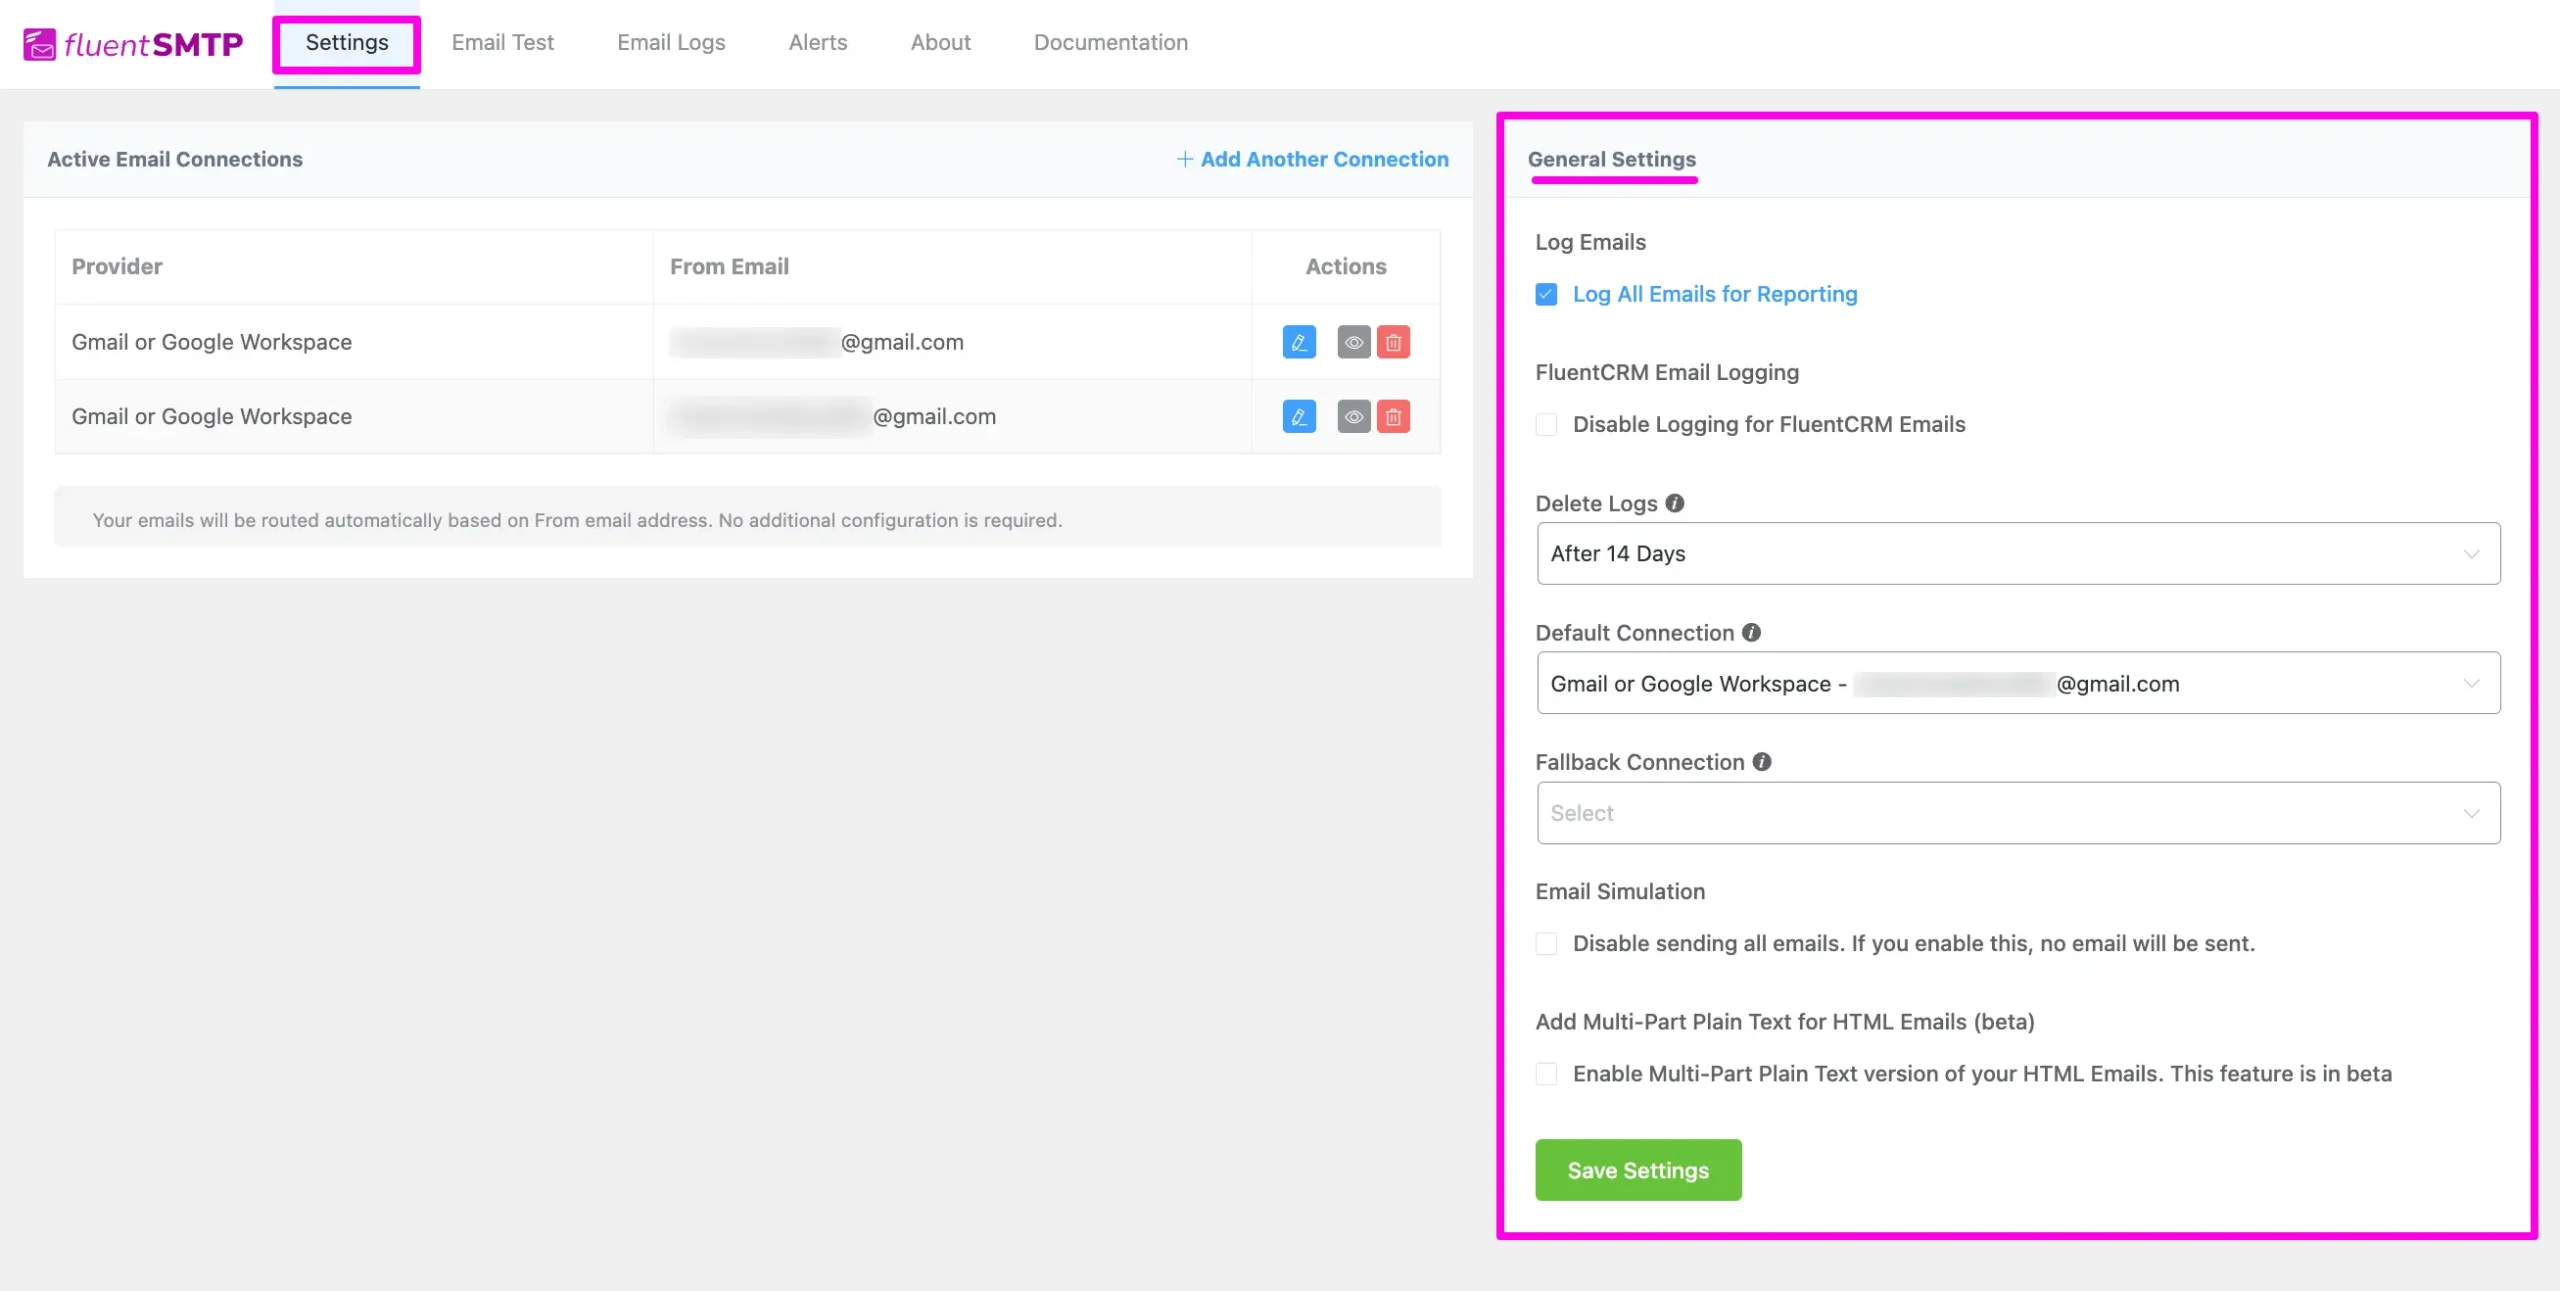
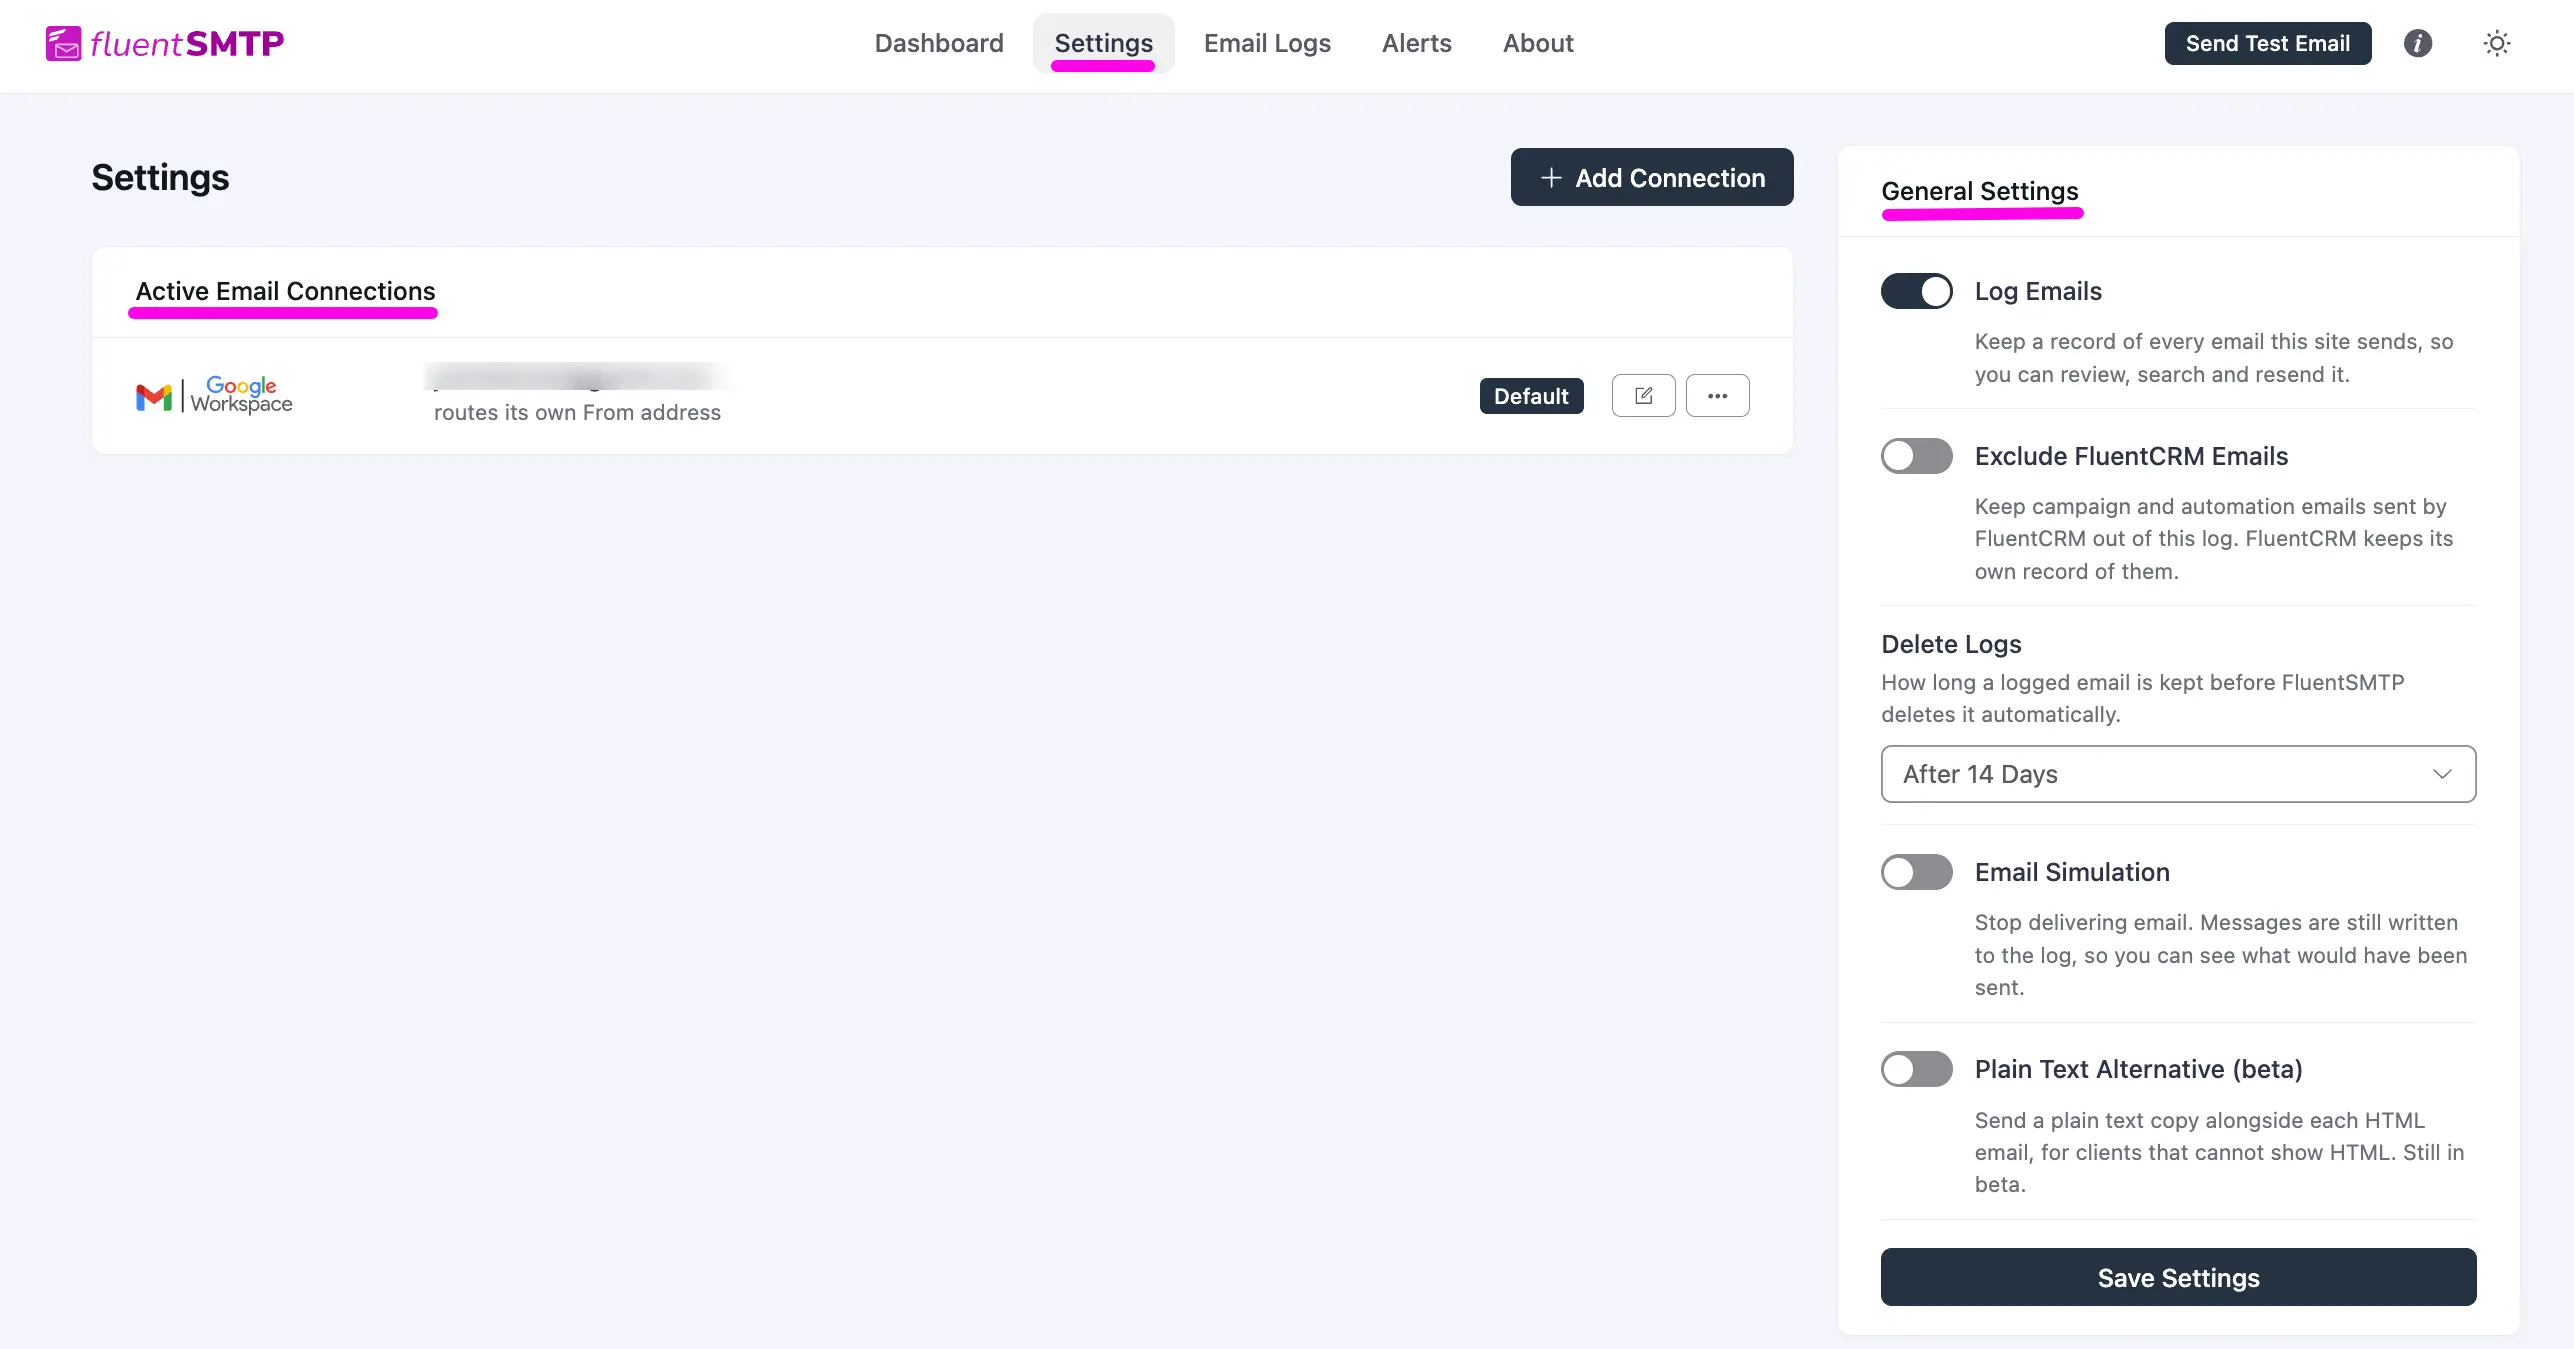
rewrite FluentSMTP Settings doc

diff --git a/docs/getting-started/fluentsmtp-settings.md b/docs/getting-started/fluentsmtp-settings.md
@@ -1,47 +1,107 @@
 # FluentSMTP Settings
 
-This article will guide you through the process of using the **General Settings** of the main section of FluentSMTP.
+The **FluentSMTP Settings** page lets you manage your email connections and configure settings that control how FluentSMTP handles outgoing emails on your WordPress site.
+
+From this page, you can manage your active email connections, choose default and fallback connections, control email logging, enable email simulation, and configure other general settings. You can also manage sender addresses and connection-specific options from the individual connection settings.
+
+This guide explains each available setting and shows you how to configure FluentSMTP.
+
+## Open Settings
+
+Click **Settings** in the FluentSMTP top bar. The page has two columns: **Active Email Connections** on the left, and **General Settings** on the right.
+
+Save **General Settings** with the **Save Settings** button. Connection changes are saved on the Add/Edit Connection screen with the **Save Connection Settings** button.
+
+![Active Email Connections and General Settings on the FluentSMTP Settings Page](/images/getting-started/fluentsmtp-settings/General-Settings-tab-on-the-right-hand-side-scaled.webp)
+
+
 
 ## General Settings
 
-To learn how you can get the General Settings option of FluentSMTP, follow the steps with screenshots below –
+These settings apply to the whole site, not to one provider.
 
-First, go to the **Settings** section from the **FleuntSMTP Navbar** and you will get all the settings options under the **General Settings** sidebar on the right-hand side.
+### Log Emails
 
-Once you are done, do not forget to click the **Save Settings** button, otherwise the changes you have made will not save.
+**Log Emails** is on by default. FluentSMTP stores every outgoing message so you can search it, open it, and resend it. Turn this off only if you have a reason — without logs, you cannot see why a send failed.
 
-![General Settings tab on the right-hand side](/images/getting-started/fluentsmtp-settings/General-Settings-tab-on-the-right-hand-side-scaled.webp)
+If FluentCRM is active, an **Exclude FluentCRM Emails** switch appears under **Log Emails**. FluentCRM already logs its own campaigns, so turning this exclusion on keeps those messages out of the FluentSMTP log and keeps the table smaller.
 
-**All the options mentioned below inside the General Settings of the FluentSMTP are briefly explained below:**
+### Delete Logs
 
-- **Log Emails**: Whether to Log All Outgoing Emails for Reporting or not.
+**Delete Logs** controls how long a logged email stays before FluentSMTP deletes it. Options run from 7 days to 2 years. Shorter is kinder to the database — resend or export any failed mail you still need to debug before that window closes.
 
-- **FluentCRM Email Logging**: Whether to Log All FluentCRM Emails for Reporting or not. Since FluentCRM has its own Email Logging. Disabling this option may reduce the Database Size for FluentSMTP.
+### Email Simulation
 
-- **Delete Logs**: The period after the emails sent and logged will be deleted.
+**Email Simulation** stops delivery. Messages are still written to the log, marked as simulated. Use this on staging, or whenever you need to see what would have been sent without touching real inboxes.
 
-- **Default Connection**: The default Delivery Connection is to be used for the whole of WordPress.
+> [!Note]
+> If `FLUENTMAIL_SIMULATE_EMAILS` is defined in PHP, the **Email Simulation** switch does nothing — the constant wins.
 
-- **Fallback Connection**: A Fallback Connection in case of failure using default Delivery Connection.
+### Plain Text Alternative
 
-- **Email Simulation**: You can enable email delivery simulation with this option. All the emails will be simulated but not delivered outside of WordPress. Enabling Email Logging will store the simulated emails under Email Logs and you can check them for further purposes.
+**Plain Text Alternative (beta)** adds a `text/plain` part next to the HTML version of the email. Some clients still cannot show HTML. Leave this off unless you know you need it.
 
-- **Add Multi-Part Plain Text for HTML Emails** (**beta):** A multipart MIME message consists of parts with headers and content types (e.g., 'text/plain' or 'image/jpeg'). The message starts with standard email headers and a 'Content-Type' header indicating its multipart nature and defining a unique boundary string that separates each section. Each part includes its own headers and body. The message ends with the boundary string followed by two hyphens, signifying the end of the multipart content.
+## Connection Rows
 
-**See the screenshot below as an example of Add Multi-Part Plain Text for HTML Emails** (**beta)** –
+Each row under **Active Email Connections** is one connection, and shows:
 
-![Example of Multi-part plain text for HTML emails (beta)](/images/getting-started/fluentsmtp-settings/Example-of-Multi-part-plain-text-for-HTML-.webp)
+- The provider logo and the **From** address
+- A short note (region, "routes its own From address", and similar)
+- A **Default** badge if this is the connection everything else falls through to
+- A **Fallback** badge if this is the backup used when **Default** fails
+- A **+N senders** mark on Amazon SES and toSend connections, for any extra senders — click it to manage them
+- An **Edit** (pencil) icon that opens the connection form
+- An **Actions** (three dots) menu with **Set as Default**, **Set as Fallback**, **View**, and **Delete**
 
-## Settings in a Specific Email Service Provider
+![Actions Menu on a Connection Row with Set as Default, Set as Fallback, View and Delete](/images/getting-started/fluentsmtp-settings/Three-more-settings-under-Action-column-of-a-specific-email-service-provider-scaled.webp)
 
-Inside a specific email service provider you are already connected to, you will get three more settings options under the Action column. These are:
+You cannot set the same connection as both **Default** and **Fallback**, and you cannot set a **Fallback** until you have more than one connection.
 
-- **Edit option**: By clicking this **Pencil** icon, you can go to the **Connection** **Provider** page and edit the existing information.
+**View** opens the connection details, the **From** address, sender name, and whether the token is still valid. **Delete** removes the connection; mail that used its **From** address will then go through **Default**, or fail if nothing is left.
 
-- **Preview option**: By clicking this **Eye** icon, you can preview your Connection Details (e.g., sender email, sender name, force sender name, and token validity).
+## Default, Fallback & Extra From Addresses
 
-- **Delete option**: By clicking this **Trash** icon, you can delete the connection anytime for this specific server if needed.
+Mail sent from a connection's own **From** address always goes through that connection. Everything else goes through **Default**. If **Default** fails, FluentSMTP tries **Fallback**.
 
-![Three more settings under Action column of a specific email service provider](/images/getting-started/fluentsmtp-settings/Three-more-settings-under-Action-column-of-a-specific-email-service-provider-scaled.webp)
+That same routing rule appears under the connections list once you have more than one connection. For the full walkthrough, see [Multiple SMTP Connections & Auto Routing](/multiple-smtp-connections-auto-routing).
 
-If you have any further questions, concerns, or suggestions, please do not hesitate to contact our [@support team](https://wpmanageninja.com/support-tickets/?utm_source=wpmn&utm_medium=home&utm_campaign=site#/). Thank you.
+Amazon SES and toSend connections can send as more than one **From** address on the same connection. Click **+N senders** (or **Manage additional sender addresses**) on the row to add one, the address has to be on a domain that provider has already verified.
+
+## Force From Email & Force Sender Name
+
+These settings live on each connection form, under **Sender Settings**, not on **General Settings**. Gmail, Outlook, and Cloudflare do not show **Force From Email**, since those connections send as the mailbox you authenticate.
+
+- **Force From Email** (recommended): any mail that is not already routed to another connection is sent from this address, whatever **From** the sending plugin set.
+- **Force Sender Name**: the **From Name** on this connection is used, whatever name the sending plugin set.
+- **Set the return-path to match the From Email**: bounce notices go back to this address, when the provider honors **Return-Path**.
+
+## Where Secrets Are Stored
+
+Leave **Store in Database** selected — that is the default. Paste the key (or password) on the form, and FluentSMTP encrypts it with your WordPress SALT keys before saving it. Most sites should stop there.
+
+The same form also lets you change that:
+
+- **Store in Database**, encryption on (default). The field help text confirms the value is encrypted with your WordPress SALT keys before it is saved.
+- **Store in Database**, with **Disable Encryption** ticked. The secret is stored as readable text. The checkbox is labeled **not recommended** — use it only if a security plugin rotates SALT keys and the encrypted value keeps breaking.
+- **Store in wp-config.php**. The key fields disappear, and the form shows the `define()` lines for that provider. Paste them into `wp-config.php` above `That's all, stop editing!`. Use this when you do not want the secret in the database at all.
+
+> **Remember**, none of these extra steps are required. Pick **Store in Database**, leave encryption on, paste the key, and save.
+
+If you do choose **Store in wp-config.php**, the form on your site is the source of truth for the constant names — they look like this:
+
+| Connection | Constants |
+|---|---|
+| Other SMTP | `FLUENTMAIL_SMTP_USERNAME`, `FLUENTMAIL_SMTP_PASSWORD` |
+| toSend | `FLUENTMAIL_TOSEND_API_KEY` |
+| Amazon SES | `FLUENTMAIL_AWS_ACCESS_KEY_ID`, `FLUENTMAIL_AWS_SECRET_ACCESS_KEY` |
+| Mailgun | `FLUENTMAIL_MAILGUN_API_KEY`, `FLUENTMAIL_MAILGUN_DOMAIN` |
+| SendGrid | `FLUENTMAIL_SENDGRID_API_KEY` |
+| Brevo (Sendinblue) | `FLUENTMAIL_SENDINBLUE_API_KEY` |
+| SparkPost | `FLUENTMAIL_SPARKPOST_API_KEY` |
+| Netcore (Pepipost) | `FLUENTMAIL_PEPIPOST_API_KEY` |
+| Postmark | `FLUENTMAIL_POSTMARK_API_KEY` |
+| Elastic Email | `FLUENTMAIL_ELASTICMAIL_API_KEY` |
+| SMTP2GO | `FLUENTMAIL_SMTP2GO_API_KEY` |
+| Gmail | `FLUENTMAIL_GMAIL_CLIENT_ID`, `FLUENTMAIL_GMAIL_CLIENT_SECRET` |
+| Outlook | `FLUENTMAIL_OUTLOOK_CLIENT_ID`, `FLUENTMAIL_OUTLOOK_CLIENT_SECRET` |
+| Cloudflare | `FLUENTMAIL_CLOUDFLARE_API_KEY`, `FLUENTMAIL_CLOUDFLARE_ACCOUNT_ID` |

diff --git a/docs/delivery-connections/connect-gmail-or-google-workspace-with-fluentsmtp.md b/docs/delivery-connections/connect-gmail-or-google-workspace-with-fluentsmtp.md
@@ -196,9 +196,7 @@ Here is your **Client ID** and **Client Secret** that is shown on the right side
 
 Once you create and collect all the credentials of your Gmail or Google Workspace from the Google Cloud platform, you can now configure this to your Fluent SMTP.
 
-**To learn how to connect Gmail/Google Workspace with Fluent SMTP, follow the steps with screenshots below – **
-
-First, go to the desired **Add Connection** page under **Settings** from the **Fluent SMTP Navbar** and **paste** the **Client ID** and **Client Secret** that you created and collected earlier in the previous steps. 
+Go to the desired **Add Connection** page under **Settings** from the **Fluent SMTP Navbar** and **paste** the **Client ID** and **Client Secret** that you created and collected earlier in the previous steps. 
 
 Now click on the **Authenticate with Google & Get Access Token** button to get the access token for authentication.
 
